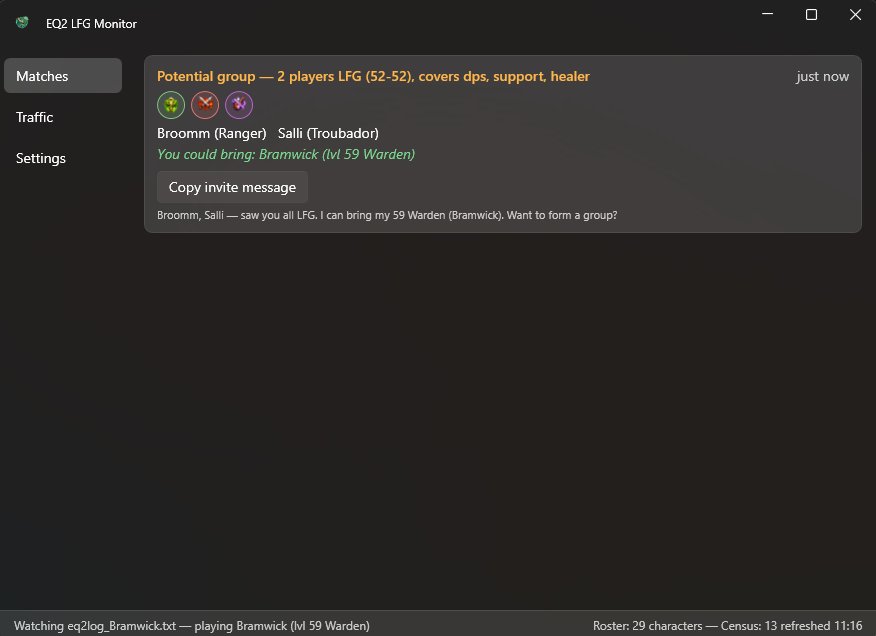
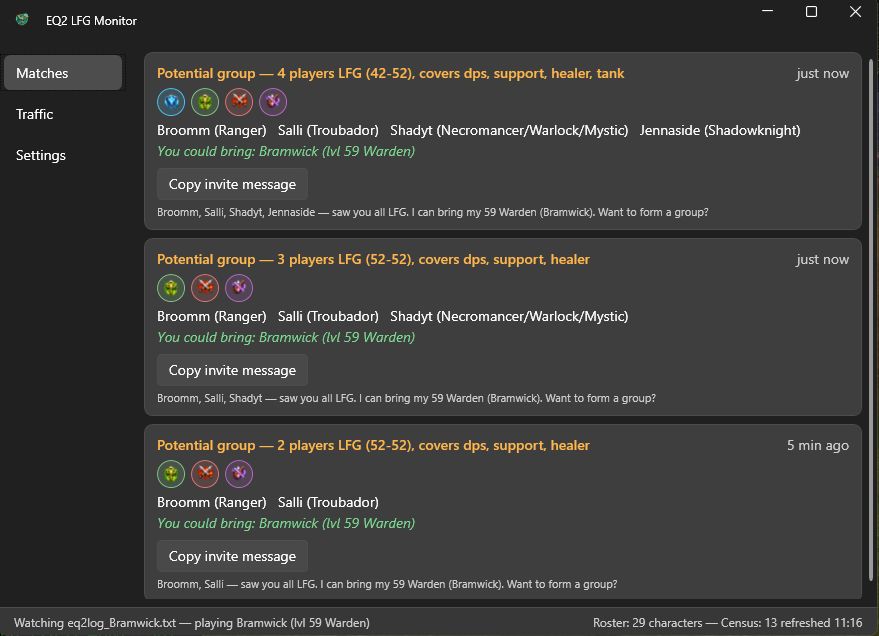
Use richer screenshot in README

diff --git a/README.md b/README.md
@@ -6,7 +6,7 @@ can fill — or when enough individual LFG players are around to start a new gro
 
 See [REQUIREMENTS.md](REQUIREMENTS.md) for the full feature set.
 
-![EQ2 LFG Monitor showing a group opportunity: two players LFG with archetype badges, and a suggested own character to complete the group](docs/app.png)
+![EQ2 LFG Monitor showing group opportunities: clusters of LFG players with archetype badges, and a suggested own character to complete each group](docs/app.png)
 
 ## How it works
 
